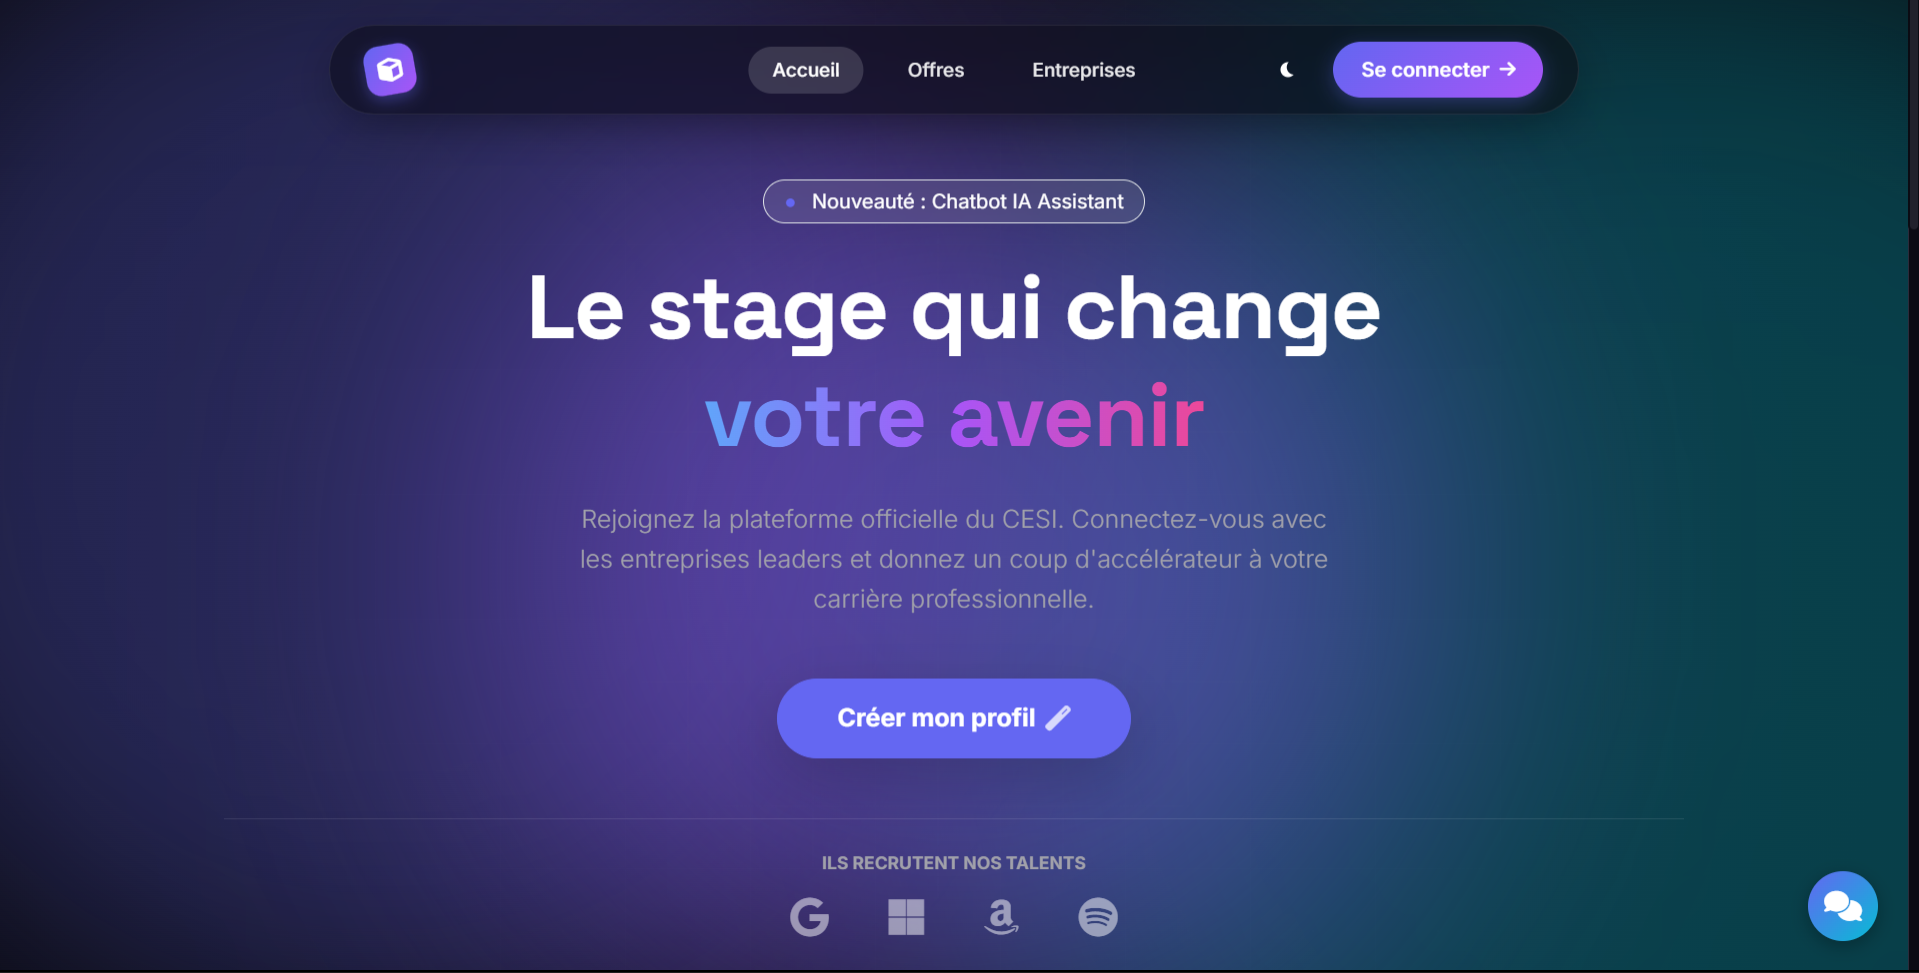
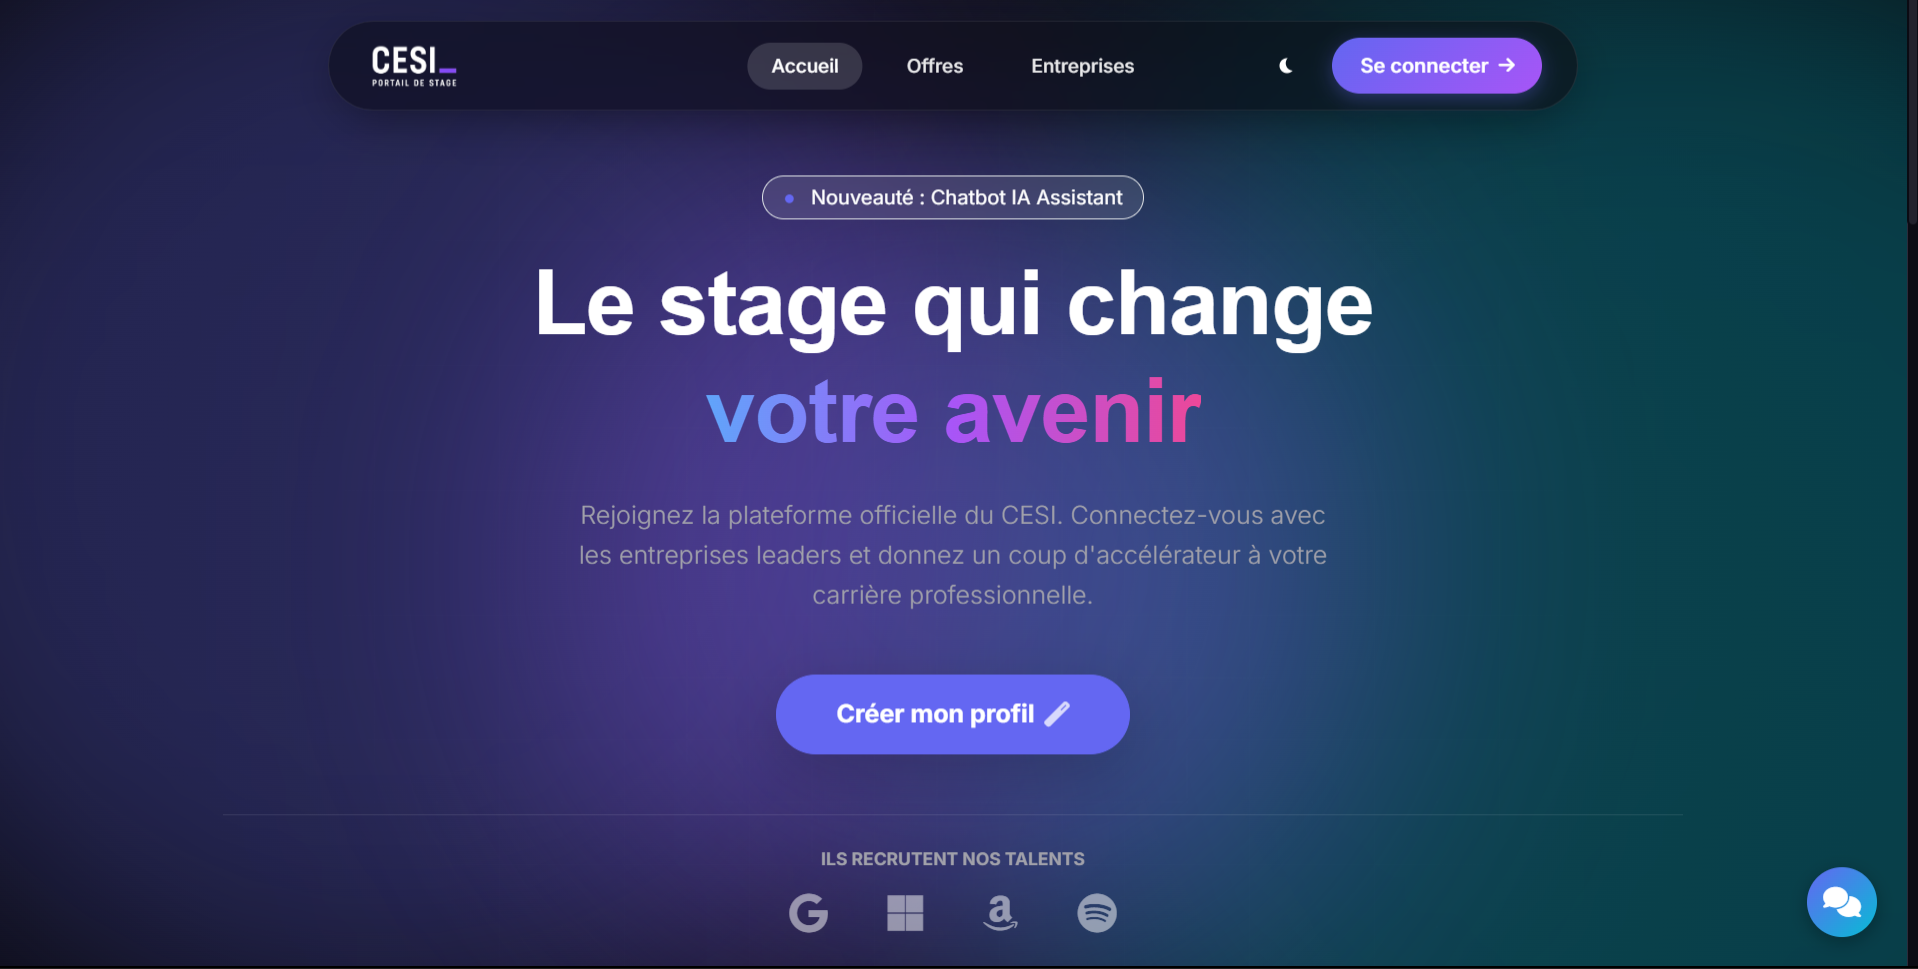
New_Screen

diff --git a/src/views/partials/header.php b/src/views/partials/header.php
@@ -833,7 +833,7 @@ function isNavLinkActive($uri, $base, $path) {
         
         <!-- Brand -->
         <a href="<?= BASE_URL ?>" class="logo-container">
-            <div class="logo-icon" style="background: none; box-shadow: none;">
+            <div class="logo-icon" style="background: none; box-shadow: none; margin-left: 20px;">
                 <img 
                                 src="<?= BASE_URL ?>/assets/img/logo_black_wb.png" 
                                 alt="Logo CESI" 
